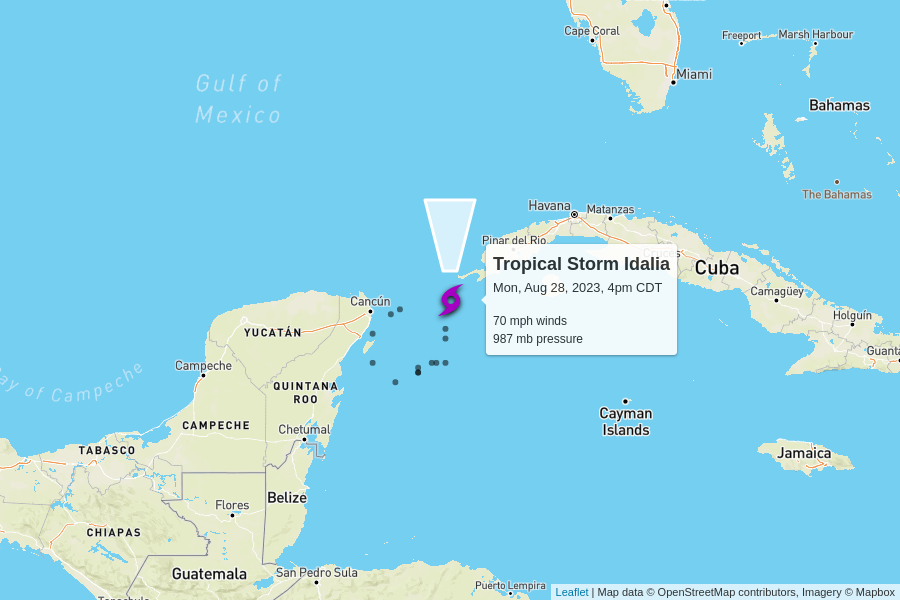
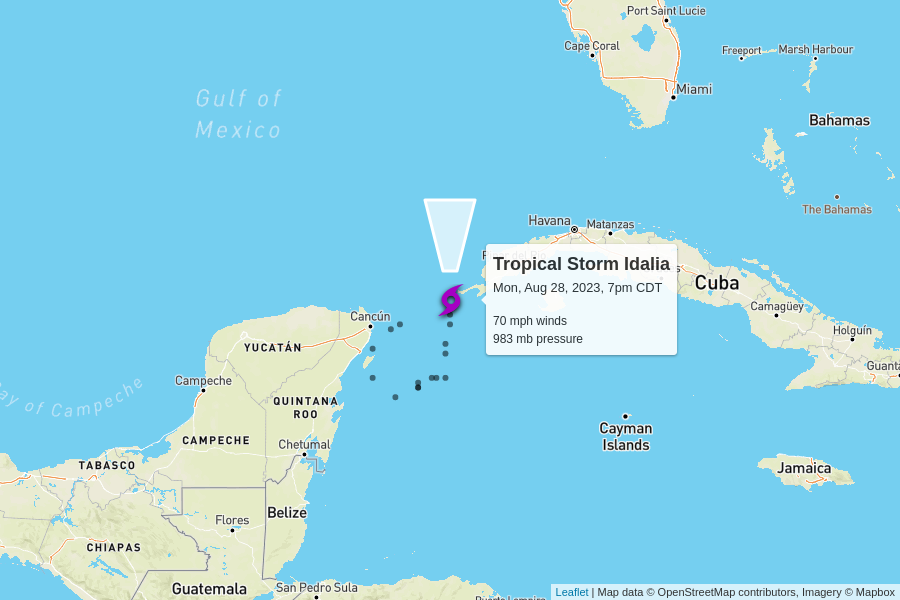
automatic update

diff --git a/docs/index.html b/docs/index.html
@@ -100,7 +100,7 @@
         <td colspan="6" class="storm category-4" >
           <h2>
             Hurricane Franklin - Category 4
-            <p class="updated">last updated <span data-time>2023-08-28T21:00:00.000Z</span></p>
+            <p class="updated">last updated <span data-time>2023-08-29T00:00:00.000Z</span></p>
           </h2>
         </td>
       </tr>
@@ -115,8 +115,8 @@
       </tr>
       <tr>
         <td class="spacer"></td>
-        <td>145 mph</td>
-        <td>937 mb</td>
+        <td>150 mph</td>
+        <td>926 mb</td>
         <td>
           9 mph to the north
           <br/>
@@ -144,7 +144,7 @@
         <td colspan="6" class="storm category-0" >
           <h2>
             Tropical Storm Idalia
-            <p class="updated">last updated <span data-time>2023-08-28T21:00:00.000Z</span></p>
+            <p class="updated">last updated <span data-time>2023-08-29T00:00:00.000Z</span></p>
           </h2>
         </td>
       </tr>
@@ -160,7 +160,7 @@
       <tr>
         <td class="spacer"></td>
         <td>70 mph</td>
-        <td>987 mb</td>
+        <td>983 mb</td>
         <td>
           8 mph to the north
           <br/>
